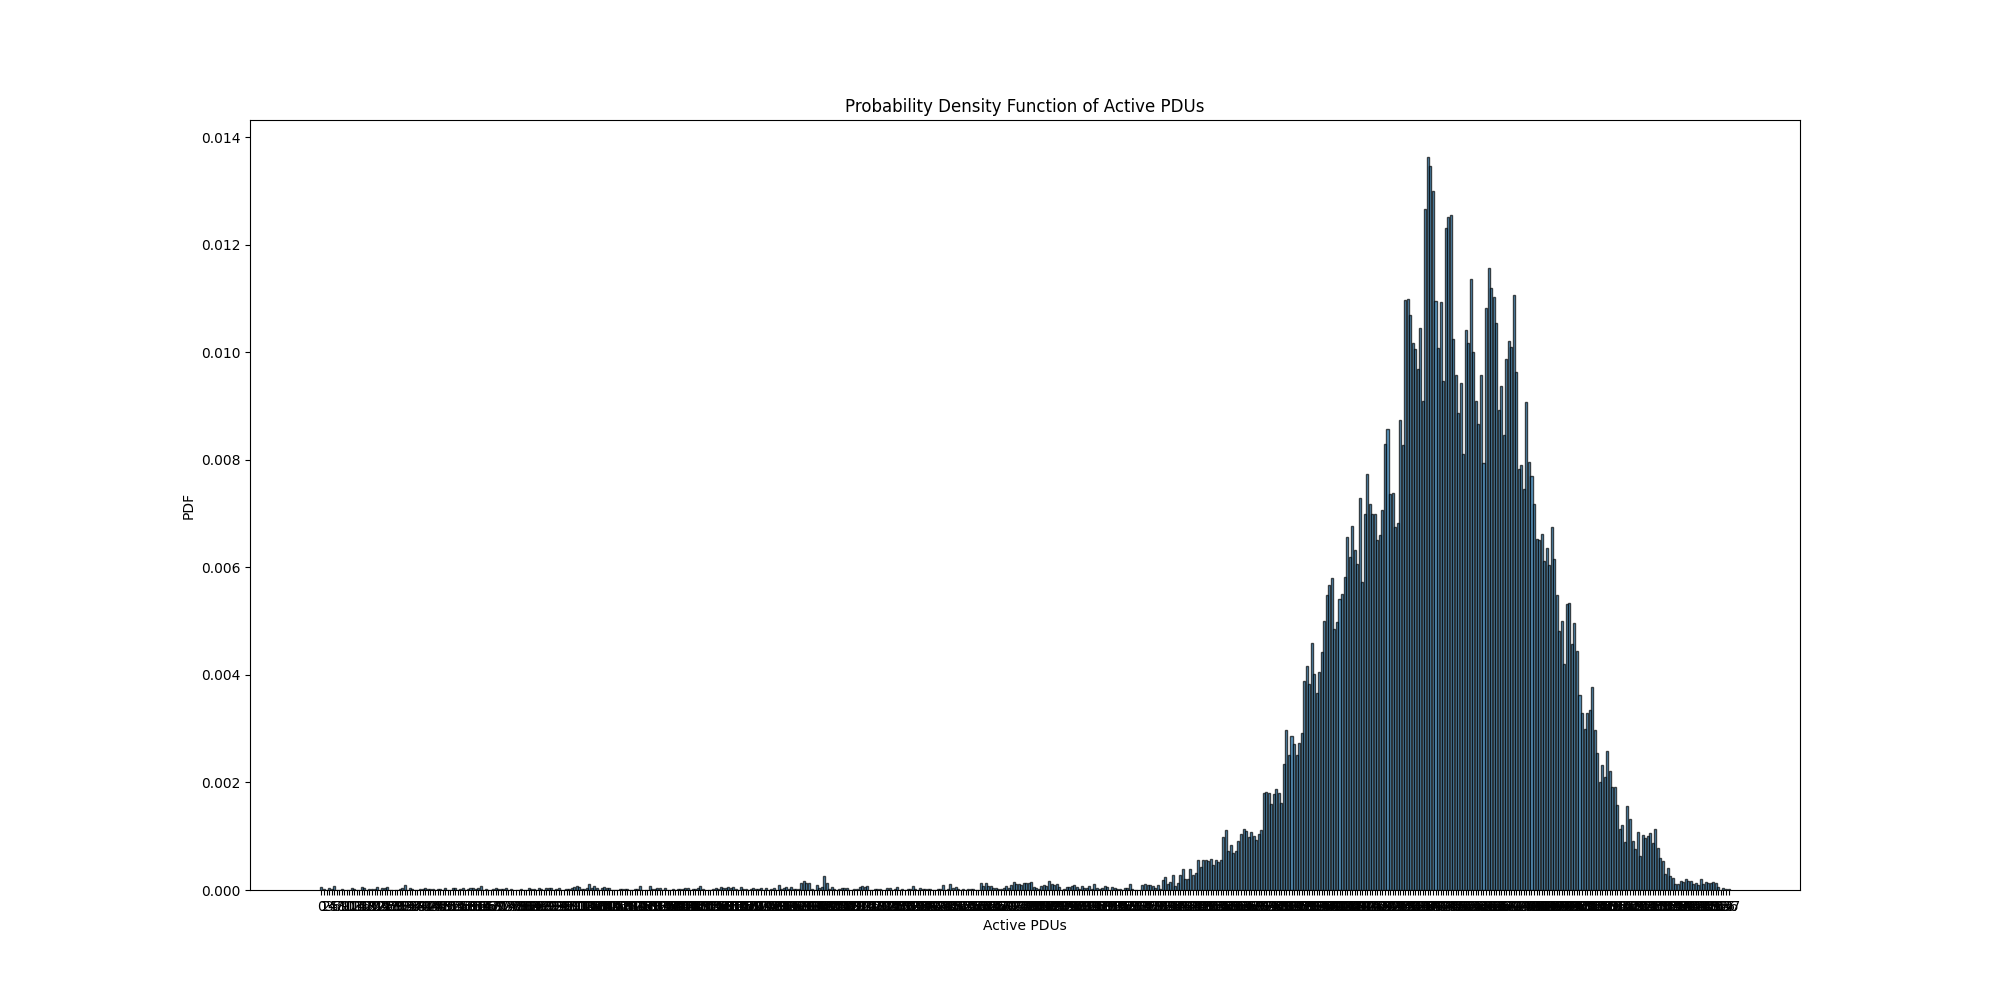
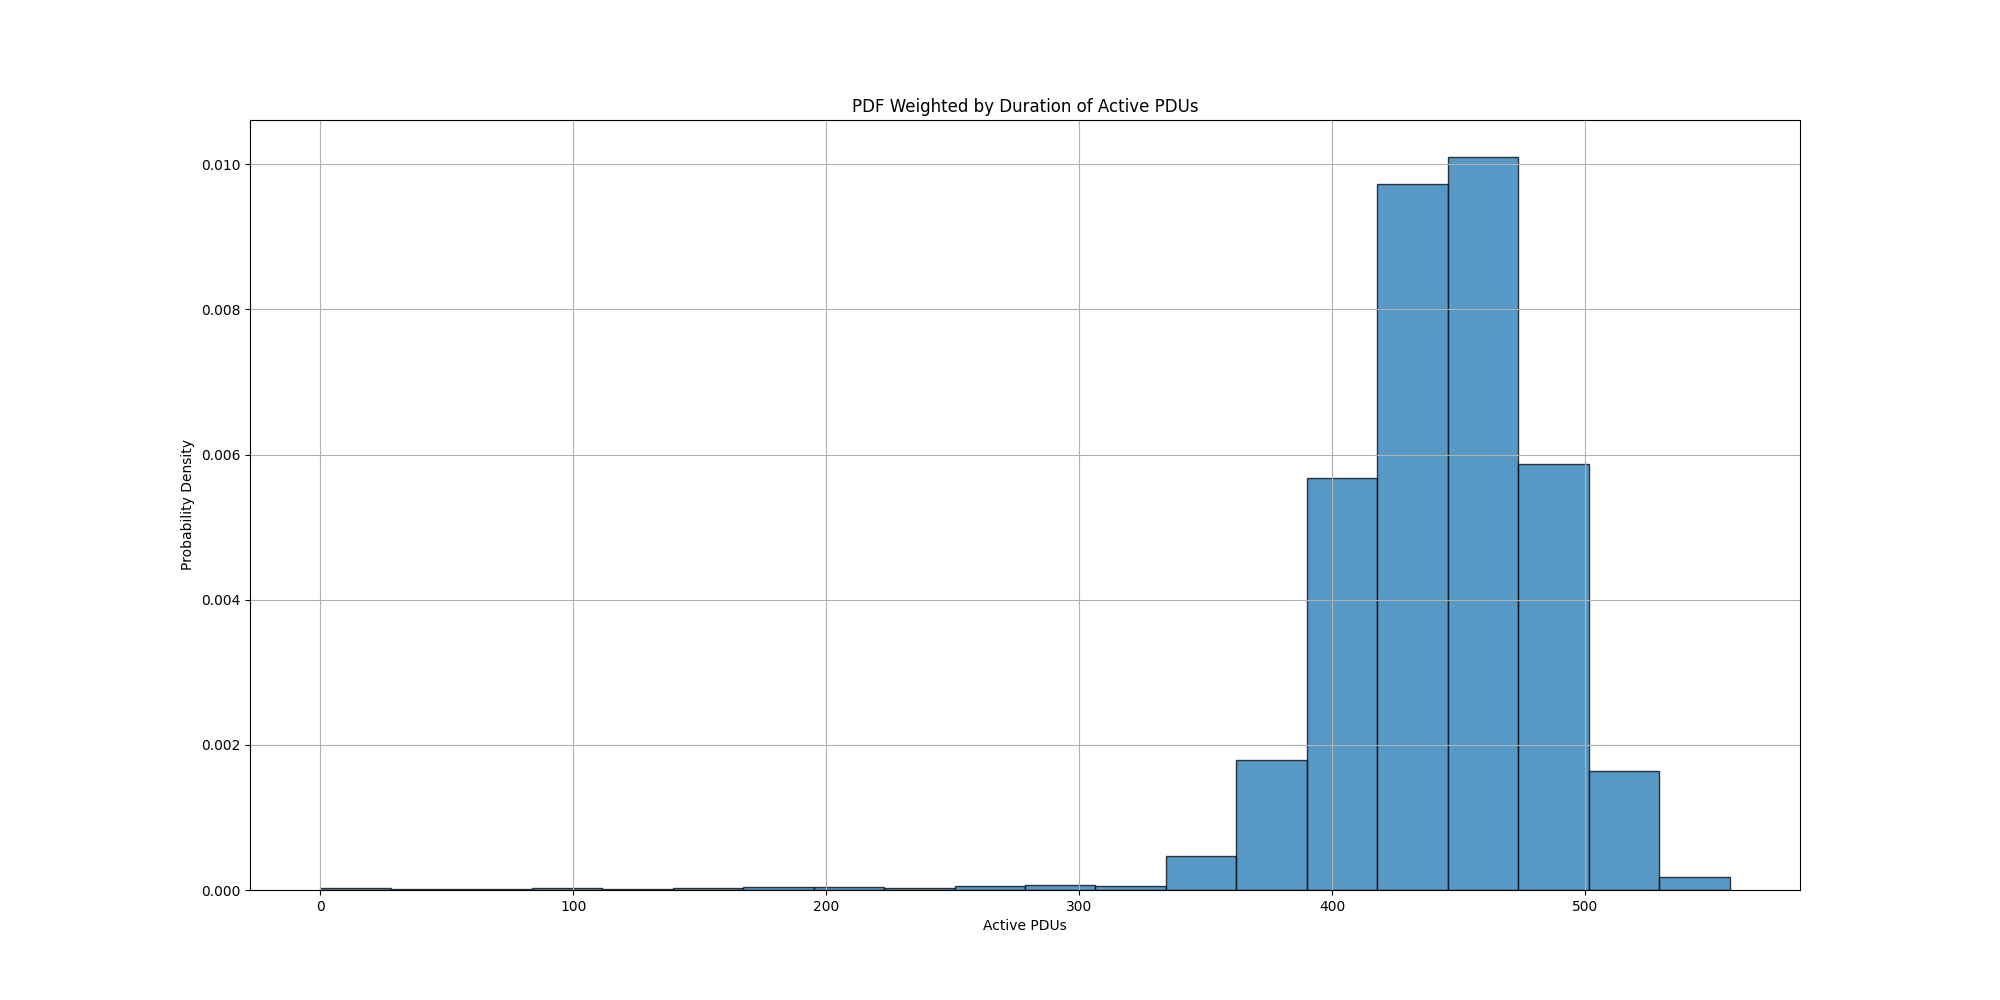
added bins and weights, and added updated results

diff --git a/post_processing.py b/post_processing.py
@@ -1,5 +1,6 @@
 import matplotlib.pyplot as plt
 import argparse
+import numpy as np
 import pandas as pd
 
 
@@ -97,68 +98,72 @@ def process_results(input_files):
     idle_upfs['Duration'] = idle_upfs['Time'].diff().shift(-1)
     free_slots['Duration'] = free_slots['Time'].diff().shift(-1)
 
-    # Group and sum the durations
-    duration_by_pdu = active_pdus.groupby('Active PDUs')['Duration'].sum()
-    duration_by_busy_upf = busy_upfs.groupby('Busy UPFs')['Duration'].sum()
-    duration_by_idle_upf = idle_upfs.groupby('Idle UPFs')['Duration'].sum()
-    duration_by_free_slots = free_slots.groupby('Free Slots')['Duration'].sum()
+    # Drop the last row
+    active_pdus = active_pdus.dropna()
+    busy_upfs = busy_upfs.dropna()
+    idle_upfs = idle_upfs.dropna()
+    free_slots = free_slots.dropna()
 
-    # Normalize by the total time to get the PDF
-    total_time = duration_by_pdu.sum()
-    pdf_by_pdu = duration_by_pdu / total_time
+    # Calculate the weights
+    weights_active_pdus = active_pdus['Duration'].values
+    weights_busy_upfs = busy_upfs['Duration'].values
+    weights_idle_upfs = idle_upfs['Duration'].values
+    weights_free_slots = free_slots['Duration'].values
 
-    total_time = duration_by_busy_upf.sum()
-    pdf_by_busy_upf = duration_by_busy_upf / total_time
+    # Number of bins
+    num_bins = 20
 
-    total_time = duration_by_idle_upf.sum()
-    pdf_by_idle_upf = duration_by_idle_upf / total_time
+    # Calculate the histograms
+    pdf_active_pdus, bins_active_pdus = np.histogram(active_pdus['Active PDUs'], bins=num_bins,
+                                                     weights=weights_active_pdus, density=True)
+    pdf_busy_upfs, bins_busy_upfs = np.histogram(busy_upfs['Busy UPFs'], bins=num_bins, weights=weights_busy_upfs,
+                                                 density=True)
+    pdf_idle_upfs, bins_idle_upfs = np.histogram(idle_upfs['Idle UPFs'], bins=num_bins, weights=weights_idle_upfs,
+                                                 density=True)
+    pdf_free_slots, bins_free_slots = np.histogram(free_slots['Free Slots'], bins=num_bins, weights=weights_free_slots,
+                                                   density=True)
 
-    total_time = duration_by_free_slots.sum()
-    pdf_by_free_slots = duration_by_free_slots / total_time
-
-    # Convert to a DataFrame for better readability
-    pdf_pdu = pdf_by_pdu.reset_index().rename(columns={'Duration': 'PDF'})
-    pdf_busy_upf = pdf_by_busy_upf.reset_index().rename(columns={'Duration': 'PDF'})
-    pdf_idle_upf = pdf_by_idle_upf.reset_index().rename(columns={'Duration': 'PDF'})
-    pdf_free_slots = pdf_by_free_slots.reset_index().rename(columns={'Duration': 'PDF'})
-
-    # Plot the PDF of active PDUs
+    # Plot PDF of Active PDUs
     plt.figure(figsize=(20, 10))
-    plt.bar(pdf_pdu['Active PDUs'], pdf_pdu['PDF'], edgecolor='k', alpha=0.7)
+    plt.hist(active_pdus['Active PDUs'], bins=bins_active_pdus, weights=weights_active_pdus, density=True, alpha=0.75,
+             edgecolor='black')
+    plt.title('PDF Weighted by Duration of Active PDUs')
     plt.xlabel('Active PDUs')
-    plt.ylabel('PDF')
-    plt.title('Probability Density Function of Active PDUs')
-    plt.xticks(pdf_pdu['Active PDUs'])
+    plt.ylabel('Probability Density')
+    plt.grid(True)
     plt.savefig('../Results/active_pdus_pdf.png')
     plt.show()
 
-    # Plot the PDF of busy UPFs
+    # Plot PDF of Busy UPFs
     plt.figure(figsize=(20, 10))
-    plt.bar(pdf_busy_upf['Busy UPFs'], pdf_busy_upf['PDF'], edgecolor='k', alpha=0.7)
+    plt.hist(busy_upfs['Busy UPFs'], bins=bins_busy_upfs, weights=weights_busy_upfs, density=True, alpha=0.75,
+             edgecolor='black')
+    plt.title('PDF Weighted by Duration of Busy UPFs')
     plt.xlabel('Busy UPFs')
-    plt.ylabel('PDF')
-    plt.title('Probability Density Function of Busy UPFs')
-    plt.xticks(pdf_busy_upf['Busy UPFs'])
+    plt.ylabel('Probability Density')
+    plt.grid(True)
     plt.savefig('../Results/busy_upfs_pdf.png')
     plt.show()
 
-    # Plot the PDF of idle UPFs
+    # Plot PDF of Idle UPFs
     plt.figure(figsize=(20, 10))
-    plt.bar(pdf_idle_upf['Idle UPFs'], pdf_idle_upf['PDF'], edgecolor='k', alpha=0.7)
+    plt.hist(idle_upfs['Idle UPFs'], bins=bins_idle_upfs, weights=weights_idle_upfs, density=True, alpha=0.75,
+             edgecolor='black')
+    plt.title('PDF Weighted by Duration of Idle UPFs')
     plt.xlabel('Idle UPFs')
-    plt.ylabel('PDF')
-    plt.title('Probability Density Function of Busy UPFs')
-    plt.xticks(pdf_idle_upf['Idle UPFs'])
+    plt.ylabel('Probability Density')
+    plt.grid(True)
     plt.savefig('../Results/idle_upfs_pdf.png')
     plt.show()
 
-    # Plot the PDF of Free Slots
+    # Plot PDF of Free Slots
     plt.figure(figsize=(20, 10))
-    plt.bar(pdf_free_slots['Free Slots'], pdf_free_slots['PDF'], edgecolor='k', alpha=0.7)
+    plt.hist(free_slots['Free Slots'], bins=bins_free_slots, weights=weights_free_slots, density=True, alpha=0.75,
+             edgecolor='black')
+    plt.title('PDF Weighted by Duration of Free Slots')
     plt.xlabel('Free Slots')
-    plt.ylabel('PDF')
-    plt.title('Probability Density Function of Free Slots')
-    plt.xticks(pdf_free_slots['Free Slots'])
+    plt.ylabel('Probability Density')
+    plt.grid(True)
     plt.savefig('../Results/free_slots_pdf.png')
     plt.show()
 
